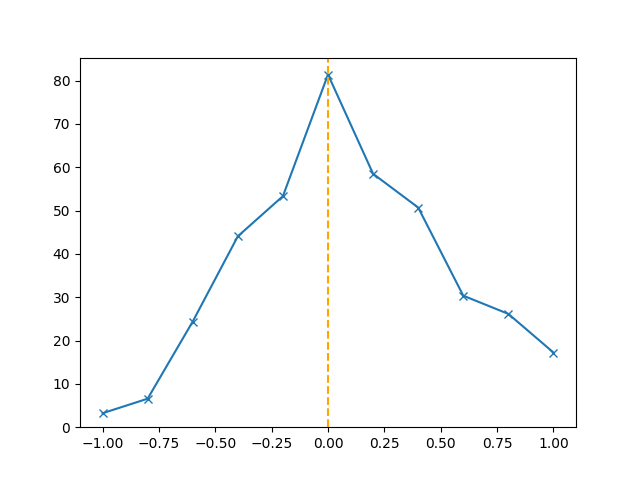
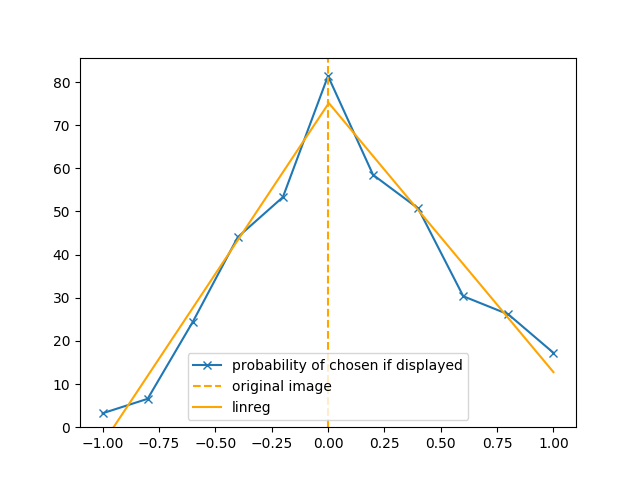
major rewrite

diff --git a/survey/analyser.py b/survey/analyser.py
@@ -13,7 +13,7 @@ sys.path.insert(0, ".")
 from edit_image import parameter_range
 
 submission_log = "/scratch/stud/pfister/NIAA/pexels/logs/submissions.log"
-#submission_log = "/home/stud/pfister/random.log"
+# submission_log = "/home/stud/pfister/random.log"
 plot_dir = Path.home() / "eclipse-workspace" / "NIAA" / "analysis" / "survey"  # type: Path
 
 plot_dir.mkdir(parents=True, exist_ok=True)
@@ -65,24 +65,93 @@ for key in parameter_range.keys():
     chosenDist[key]["posCorrelation"] = []  #  type: List[Tuple[float, int]]
     chosenDist[key]["negCorrelation"] = []  #  type: List[Tuple[float, int]]
 
-for _, row in sub_df.iterrows():  # TODO feste variablen zuweisen innerhalb der schleife "smallerEdit", "largerEdit"
+for _, row in sub_df.iterrows():
     if row["chosen"] == "error":
         continue
 
     parameter = row["parameter"]
     paramData = parameter_range[parameter]
-    lChange = float(row["leftChanges"])  # TODO bei vergleichen immer "and not isclose"
+    lChange = float(row["leftChanges"])
     rChange = float(row["rightChanges"])
+
+    if math.isclose(lChange, 0):
+        lChange = 0
+    if math.isclose(rChange, 0):
+        rChange = 0
+
+    if math.isclose(lChange, paramData["default"]):
+        lChange = paramData["default"]
+    if math.isclose(rChange, paramData["default"]):
+        rChange = paramData["default"]
+
+    lRelDistDefault = abs(paramData["default"] - lChange)
+    rRelDistDefault = abs(paramData["default"] - rChange)
+
     chosen = row["chosen"]
+    bothSame = math.isclose(lChange, rChange)
 
-    if lChange > paramData["default"]:
-        if rChange < paramData["default"]:
-            raise ("wait, that's illegal")
-    if lChange < paramData["default"]:
-        if rChange > paramData["default"]:
-            raise ("wait, that's illegal")
+    if not math.isclose(lChange, rChange):
+        if lChange < paramData["default"] and rChange > paramData["default"]:
+            raise ("hä")
+        if lChange > paramData["default"] and rChange < paramData["default"]:
+            raise ("hä")
 
-    if math.isclose(lChange, rChange):
+    if bothSame and math.isclose(lChange, paramData["default"]):
+        changeSign = "|"  # both original
+
+    if not bothSame:
+        if lChange > paramData["default"] or rChange > paramData["default"]:
+            changeSign = "+"
+        else:
+            changeSign = "-"
+
+    if bothSame:
+        smallChange = largeChange = lChange
+
+    elif not bothSame:
+        if lRelDistDefault < rRelDistDefault:
+            smallChange = lChange
+            largeChange = rChange
+        elif lRelDistDefault > rRelDistDefault:
+            smallChange = rChange
+            largeChange = lChange
+        else:
+            raise ("hä")
+
+    if math.isclose(smallChange, paramData["default"]):
+        smallChangeIsOriginal = True
+    else:
+        smallChangeIsOriginal = False
+
+    if math.isclose(largeChange, paramData["default"]):
+        largeChangeIsOriginal = True
+    else:
+        largeChangeIsOriginal = False
+
+    if not smallChangeIsOriginal and largeChangeIsOriginal:
+        raise ("hä")
+
+    if not bothSame:
+        if math.isclose(lChange, smallChange):
+            if chosen == "leftImage":
+                smallerChosen = True
+                largerChosen = False
+            elif chosen == "rightImage":
+                smallerChosen = False
+                largerChosen = True
+        elif math.isclose(rChange, smallChange):
+            if chosen == "leftImage":
+                smallerChosen = False
+                largerChosen = True
+            elif chosen == "rightImage":
+                smallerChosen = True
+                largerChosen = False
+        else:
+            raise ("hä")
+
+    # actually analysing
+
+    if bothSame:
         if chosen == "unsure":
             chosenDict[parameter]["unsure_eq"] += 1
         else:
@@ -91,35 +160,14 @@ for _, row in sub_df.iterrows():  # TODO feste variablen zuweisen innerhalb der 
         if chosen == "unsure":
             chosenDict[parameter]["unsure_not_eq"] += 1
 
-    if chosen == "unsure":
-        pass
-    elif chosen == "leftImage":
-        if lChange < paramData["default"]:
-            if lChange < rChange:
-                chosenDict[parameter]["bigger"] += 1
-            else:
-                chosenDict[parameter]["smaller"] += 1
+    if not bothSame and chosen != "unsure":
+        if smallerChosen:
+            chosenDict[parameter]["smaller"] += 1
+        elif largerChosen:
+            chosenDict[parameter]["larger"] += 1
         else:
-            if lChange < rChange:
-                chosenDict[parameter]["smaller"] += 1
-            else:
-                chosenDict[parameter]["bigger"] += 1
+            raise ("hä")
 
-    elif chosen == "rightImage":
-        if lChange < paramData["default"]:
-            if lChange < rChange:
-                chosenDict[parameter]["smaller"] += 1
-            else:
-                chosenDict[parameter]["bigger"] += 1
-        else:
-            if lChange < rChange:
-                chosenDict[parameter]["bigger"] += 1
-            else:
-                chosenDict[parameter]["smaller"] += 1
-    else:
-        raise ("wait, that's illegal")
-
-    if chosen != "unsure" and not math.isclose(lChange, rChange):
         chosenDist[parameter]["displayed"][lChange] += 1
         chosenDist[parameter]["displayed"][rChange] += 1
 
@@ -128,62 +176,96 @@ for _, row in sub_df.iterrows():  # TODO feste variablen zuweisen innerhalb der 
         else:
             chosenDist[parameter]["chosen"][rChange] += 1
 
-    if not math.isclose(lChange, rChange):
-        if not (math.isclose(lChange, paramData["default"]) or math.isclose(rChange, paramData["default"])):
-            continue
-        if lChange > paramData["default"]:
-            if lChange < rChange:
-                if chosen == "leftImage":
-                    chosenDist[parameter]["posCorrelation"].append((abs(rChange - lChange), 1))
-                elif chosen == "rightImage":
-                    chosenDist[parameter]["posCorrelation"].append((abs(rChange - lChange), 0))
+    if not bothSame:
+        if smallChangeIsOriginal:
+            if smallerChosen:
+                if changeSign == "+":
+                    chosenDist[parameter]["posCorrelationBase"].append((abs(largeChange), 1))
+                elif changeSign == "-":
+                    chosenDist[parameter]["negCorrelationBase"].append((abs(largeChange), 1))
             else:
-                if chosen == "leftImage":
-                    chosenDist[parameter]["posCorrelation"].append((abs(rChange - lChange), 0))
-                elif chosen == "rightImage":
-                    chosenDist[parameter]["posCorrelation"].append((abs(rChange - lChange), 1))
-        elif lChange < paramData["default"]:
-            if lChange < rChange:
-                if chosen == "leftImage":
-                    chosenDist[parameter]["negCorrelation"].append((abs(rChange - lChange), 0))
-                elif chosen == "rightImage":
-                    chosenDist[parameter]["negCorrelation"].append((abs(rChange - lChange), 1))
+                if changeSign == "+":
+                    chosenDist[parameter]["posCorrelationBase"].append((abs(largeChange), 0))
+                elif changeSign == "-":
+                    chosenDist[parameter]["negCorrelationBase"].append((abs(largeChange), 0))
+        else:
+            if smallerChosen:
+                if changeSign == "+":
+                    chosenDist[parameter]["posCorrelation"].append((abs(largeChange - smallChange), 1))
+                elif changeSign == "-":
+                    chosenDist[parameter]["negCorrelation"].append((abs(largeChange - smallChange), 1))
             else:
-                if chosen == "leftImage":
-                    chosenDist[parameter]["negCorrelation"].append((abs(rChange - lChange), 1))
-                elif chosen == "rightImage":
-                    chosenDist[parameter]["negCorrelation"].append((abs(rChange - lChange), 0))
+                if changeSign == "+":
+                    chosenDist[parameter]["posCorrelation"].append((abs(largeChange - smallChange), 0))
+                elif changeSign == "-":
+                    chosenDist[parameter]["negCorrelation"].append((abs(largeChange - smallChange), 0))
 
-params = sorted(parameter_range.keys(), key=lambda k: chosenDict[k]["bigger"] / chosenDict[k]["smaller"])
+params = sorted(parameter_range.keys(), key=lambda k: chosenDict[k]["larger"] / chosenDict[k]["smaller"])
 for key in params:
+
     print(f"{key}:\t{'{:.1f}%'.format(sum(chosenDict[key].values()) / sum([sum(val.values()) for val in chosenDict.values()])*100)}\t| {sum(chosenDict[key].values())}")
     print(f"\tsmaller edit:\t\t{'{:.1f}%'.format(chosenDict[key]['smaller'] / sum(chosenDict[key].values()) * 100)}\t| {chosenDict[key]['smaller']}")
-    print(f"\tlarger edit:\t\t{'{:.1f}%'.format(chosenDict[key]['bigger'] / sum(chosenDict[key].values()) * 100)}\t| {chosenDict[key]['bigger']}")
+    print(f"\tlarger edit:\t\t{'{:.1f}%'.format(chosenDict[key]['larger'] / sum(chosenDict[key].values()) * 100)}\t| {chosenDict[key]['larger']}")
     print(f"\tunsure and equal:\t{'{:.1f}%'.format(chosenDict[key]['unsure_eq'] / sum(chosenDict[key].values()) * 100)}\t| {chosenDict[key]['unsure_eq']}")
     print(f"\tunsure but not equal:\t{'{:.1f}%'.format(chosenDict[key]['unsure_not_eq'] / sum(chosenDict[key].values()) * 100)}\t| {chosenDict[key]['unsure_not_eq']}")
     print(f"\tnot unsure but equal:\t{'{:.1f}%'.format(chosenDict[key]['not_unsure_eq'] / sum(chosenDict[key].values()) * 100)}\t| {chosenDict[key]['not_unsure_eq']}")
 
-    try:
-        print("\tcorr. for pos. changes | one image original | bigger changes == more clicks for original image?:")
-        print("\t\tpearson:\tcorr. coeff: {:05.3f} p: {:05.4f}".format(*pearsonr(*list(zip(*chosenDist[key]["posCorrelation"])))))
-        print("\t\tspearman:\tcorr. coeff: {:05.3f} p: {:05.4f}".format(*spearmanr(*list(zip(*chosenDist[key]["posCorrelation"])))))
-        print("\t\tlinregr:\tslope: {:05.3f} intercept: {:05.3f} corr. coeff: {:05.3f} p: {:05.4f} stderr: {:05.3f}".format(*linregress(*list(zip(*chosenDist[key]["posCorrelation"])))))
-    except:
-        print(chosenDist[key]["posCorrelation"])
+    # FIXME PearsonRConstantInputWarning: An input array is constant; the correlation coefficent is not defined.
+    # FIXME RuntimeWarning: invalid value encountered in double_scalars
+    # FIXME RuntimeWarning: divide by zero encountered in double_scalars
+    print("\tcorr. for pos. changes | one image original | larger changes == more clicks for original image?:")
+    print("\t\tpearson:\tcorr. coeff: {:05.3f} p: {:05.4f}".format(*pearsonr(*list(zip(*chosenDist[key]["posCorrelationBase"])))))
+    print("\t\tspearman:\tcorr. coeff: {:05.3f} p: {:05.4f}".format(*spearmanr(*list(zip(*chosenDist[key]["posCorrelationBase"])))))
+    print("\t\tlinregr:\tslope: {:05.3f} intercept: {:05.3f} corr. coeff: {:05.3f} p: {:05.4f} stderr: {:05.3f}".format(*linregress(*list(zip(*chosenDist[key]["posCorrelationBase"])))))
+
+    if len(chosenDist[key]["negCorrelationBase"]) != 0:
+        print("\tcorr. for neg. changes | one image original | larger changes == more clicks for original image?:")
+        print("\t\tpearson:\tcorr. coeff: {:05.3f} p: {:05.4f}".format(*pearsonr(*list(zip(*chosenDist[key]["negCorrelationBase"])))))
+        print("\t\tspearman:\tcorr. coeff: {:05.3f} p: {:05.4f}".format(*spearmanr(*list(zip(*chosenDist[key]["negCorrelationBase"])))))
+        print("\t\tlinregr:\tslope: {:05.3f} intercept: {:05.3f} corr. coeff: {:05.3f} p: {:05.4f} stderr: {:05.3f}".format(*linregress(*list(zip(*chosenDist[key]["negCorrelationBase"])))))
+
+    print("\tcorr. for pos. changes | all | larger changes == more clicks for original image?:")
+    print("\t\tpearson:\tcorr. coeff: {:05.3f} p: {:05.4f}".format(*pearsonr(*list(zip(*chosenDist[key]["posCorrelation"])))))
+    print("\t\tspearman:\tcorr. coeff: {:05.3f} p: {:05.4f}".format(*spearmanr(*list(zip(*chosenDist[key]["posCorrelation"])))))
+    print("\t\tlinregr:\tslope: {:05.3f} intercept: {:05.3f} corr. coeff: {:05.3f} p: {:05.4f} stderr: {:05.3f}".format(*linregress(*list(zip(*chosenDist[key]["posCorrelation"])))))
+
     if len(chosenDist[key]["negCorrelation"]) != 0:
-        print("\tcorr. for neg. changes | one image original | bigger changes == more clicks for original image?:")
+        print("\tcorr. for neg. changes | all | larger changes == more clicks for original image?:")
         print("\t\tpearson:\tcorr. coeff: {:05.3f} p: {:05.4f}".format(*pearsonr(*list(zip(*chosenDist[key]["negCorrelation"])))))
         print("\t\tspearman:\tcorr. coeff: {:05.3f} p: {:05.4f}".format(*spearmanr(*list(zip(*chosenDist[key]["negCorrelation"])))))
         print("\t\tlinregr:\tslope: {:05.3f} intercept: {:05.3f} corr. coeff: {:05.3f} p: {:05.4f} stderr: {:05.3f}".format(*linregress(*list(zip(*chosenDist[key]["negCorrelation"])))))
 
     x = []
     y = []
+    x_pos = []
+    y_pos = []
+    x_neg = []
+    y_neg = []
+
     for k, v in sorted(chosenDist[key]["chosen"].items(), key=lambda k: k[0]):
         x.append(k)
         y.append((chosenDist[key]["chosen"][k] / chosenDist[key]["displayed"][k]) * 100)
-    plt.plot(x, y, "-x")
-    plt.axvline(x=parameter_range[key]["default"], linestyle="--", color="orange")
+
+        if k >= parameter_range[key]["default"] or math.isclose(k, parameter_range[key]["default"]):
+            x_pos.append(k)
+            y_pos.append((chosenDist[key]["chosen"][k] / chosenDist[key]["displayed"][k]) * 100)
+        if k <= parameter_range[key]["default"] or math.isclose(k, parameter_range[key]["default"]):
+            x_neg.append(k)
+            y_neg.append((chosenDist[key]["chosen"][k] / chosenDist[key]["displayed"][k]) * 100)
+    slope_pos, intercept_pos, _, _, stderr_pos = linregress(x_pos, y_pos)
+    slope_neg, intercept_neg, _, _, stderr_neg = linregress(x_neg, y_neg)
+
+    plt.plot(x, y, "-x", label="probability of chosen if displayed")
+    plt.axvline(x=parameter_range[key]["default"], linestyle="--", color="orange", label="original image")
+
+    plt.plot(x_pos, [intercept_pos + slope_pos * val for val in x_pos], linestyle="-", color="orange", label="linreg")
+    plt.plot(x_neg, [intercept_neg + slope_neg * val for val in x_neg], linestyle="-", color="orange")
+
+    # plt.errorbar(x_pos, [intercept_pos + slope_pos * val for val in x_pos], yerr=len(x_pos) * [stderr_pos], fmt="orange", label="linreg")
+    # plt.errorbar(x_neg, [intercept_neg + slope_neg * val for val in x_neg], yerr=len(x_neg) * [stderr_neg], fmt="orange")
+
     plt.ylim(bottom=0)
+    plt.legend()
     plt.savefig(plot_dir / f"{key}_dist.png")
     plt.clf()
     # print(sorted(list(chosenDist[key].items()), key=lambda k: k[0]))
